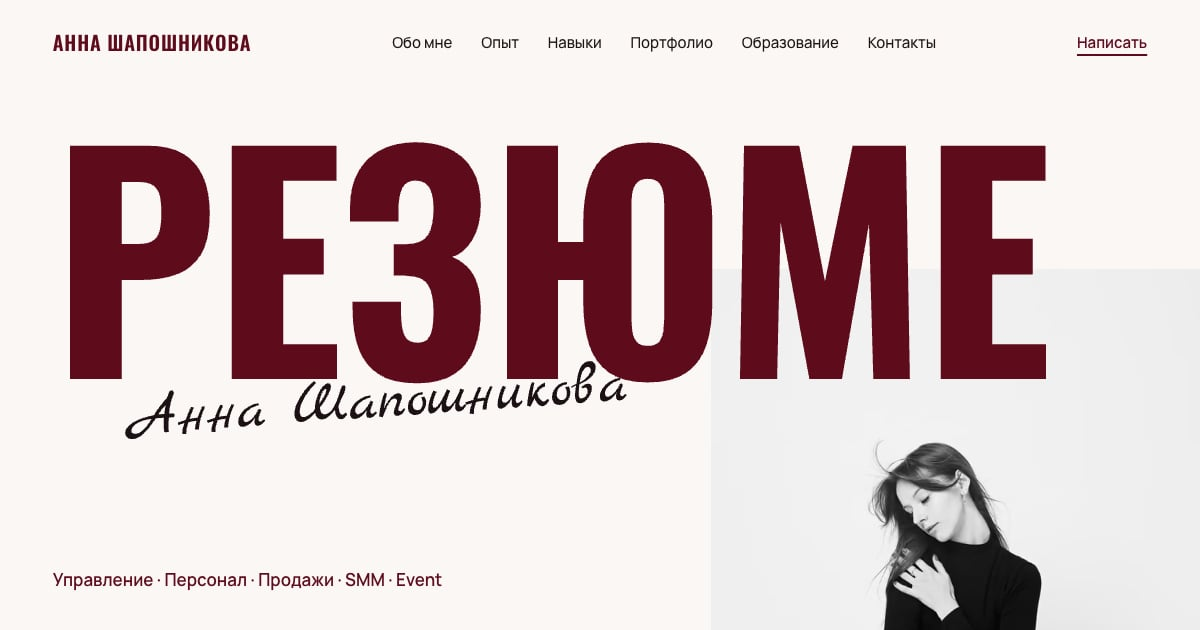
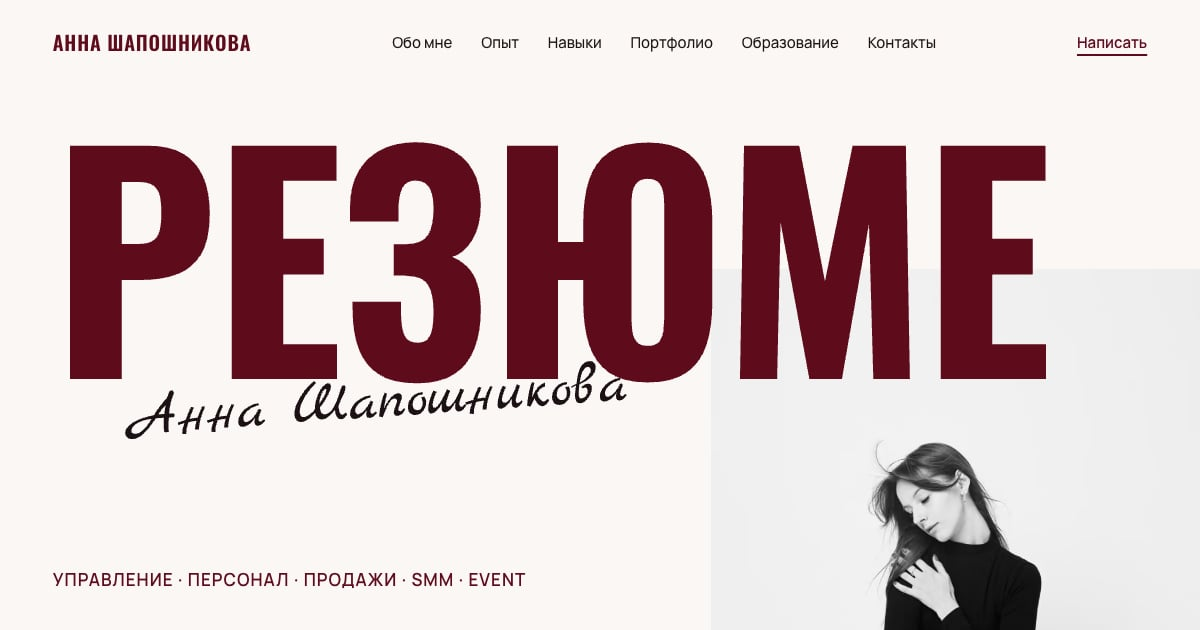
Hero: строка направлений капсом с разрядкой, перенос только по «·»

Changed region(s): [[0.0308, 0.9048, 0.4317, 0.9349]]

diff --git a/src/sections/Hero.tsx b/src/sections/Hero.tsx
@@ -1,3 +1,4 @@
+import { Fragment } from 'react';
 import { hero, links, site, ui, footerLinks } from '../content';
 import { nameGlyphs } from '../glyphs.gen';
 import { Picture } from '../components/Picture';
@@ -14,6 +15,21 @@ function Title({ className }: { className: string }) {
   );
 }
 
+// Directions line: caps with tracking; wraps only at the «·» separators.
+function Roles({ className }: { className: string }) {
+  const items = hero.roles.split(' · ');
+  return (
+    <p className={`m-0 font-semibold uppercase tracking-[.06em] text-wine [text-wrap:balance] ${className}`}>
+      {items.map((t, i) => (
+        <Fragment key={t}>
+          {i > 0 && ' '}
+          <span className="whitespace-nowrap">{t}{i < items.length - 1 && '\u00A0·'}</span>
+        </Fragment>
+      ))}
+    </p>
+  );
+}
+
 export function HeroDesktop() {
   return (
     <section id="s-top" className="hero-pad relative px-gutter">
@@ -27,7 +43,7 @@ export function HeroDesktop() {
           </div>
         </div>
         <div className="col-start-1 row-start-2 flex max-w-[540px] flex-col gap-6 pt-[clamp(32px,3.6cqi,56px)]">
-          <p className="m-0 text-[clamp(17px,1.35cqi,20px)] font-semibold text-wine">{hero.roles}</p>
+          <Roles className="text-[clamp(17px,1.35cqi,20px)]" />
           <p className="m-0 text-[clamp(20px,1.8cqi,26px)] font-medium leading-[1.4] text-ink [text-wrap:pretty]">{hero.lead}</p>
           <p className="m-0 text-[16px] leading-[1.6] text-muted">{hero.note}</p>
           <div className="mt-2 flex flex-wrap items-center gap-x-7 gap-y-4">
@@ -64,7 +80,7 @@ export function HeroMobile() {
       <div className="relative mt-6 aspect-[4/5] overflow-hidden bg-portrait">
         <Picture name="portrait" alt={hero.portraitAlt} sizes="calc(100vw - 40px)" priority className="absolute inset-0 block h-full w-full object-cover object-[50%_40%]" />
       </div>
-      <p className="m-0 mt-6 text-[15px] font-semibold leading-[1.5] text-wine">{hero.roles}</p>
+      <Roles className="mt-6 text-[15px] leading-[1.5]" />
       <p className="m-0 mt-3 text-[21px] font-medium leading-[1.4] text-ink [text-wrap:pretty]">{hero.lead}</p>
       <p className="m-0 mt-3 text-[16px] leading-[1.5] text-muted">{hero.noteMobile}</p>
       <a href={links.telegram} {...external} className="btn mt-7 flex h-14 w-full bg-wine text-paper hover:text-paper">{ui.writeTelegram}</a>
